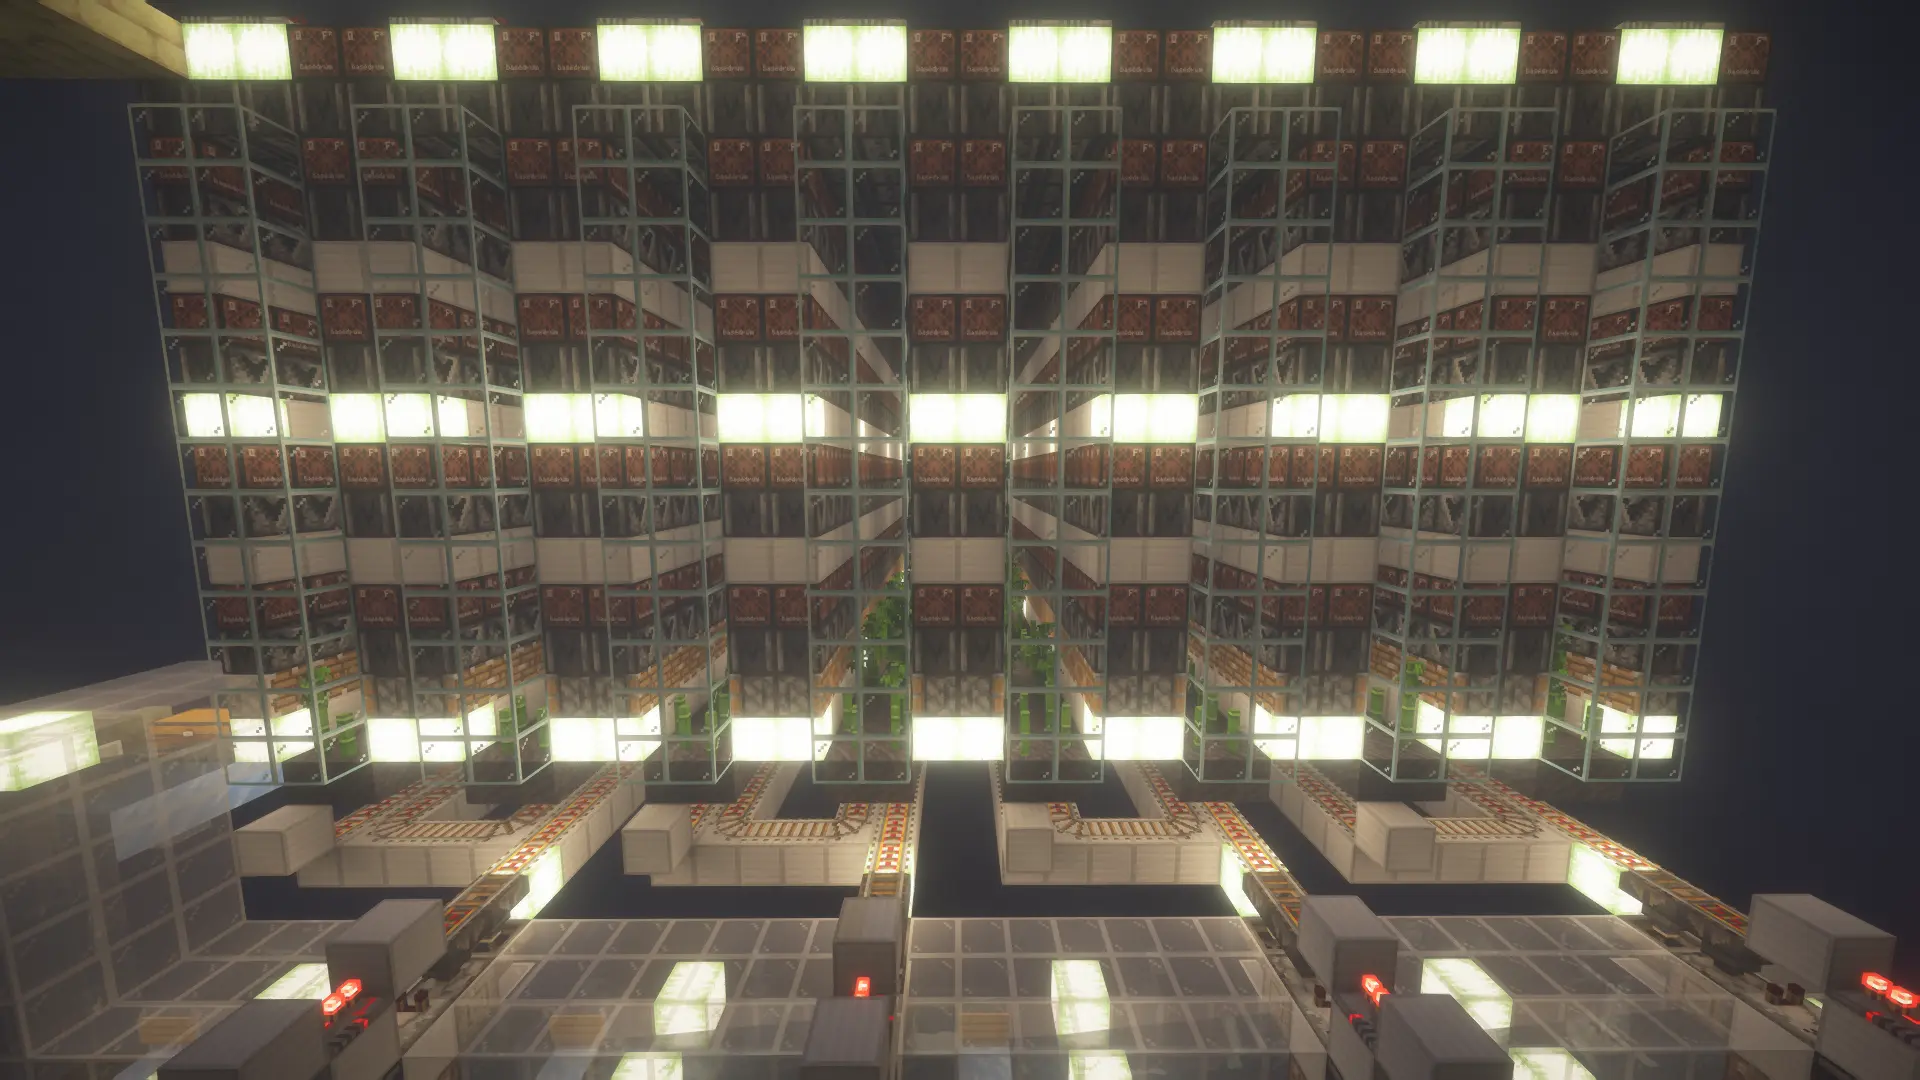
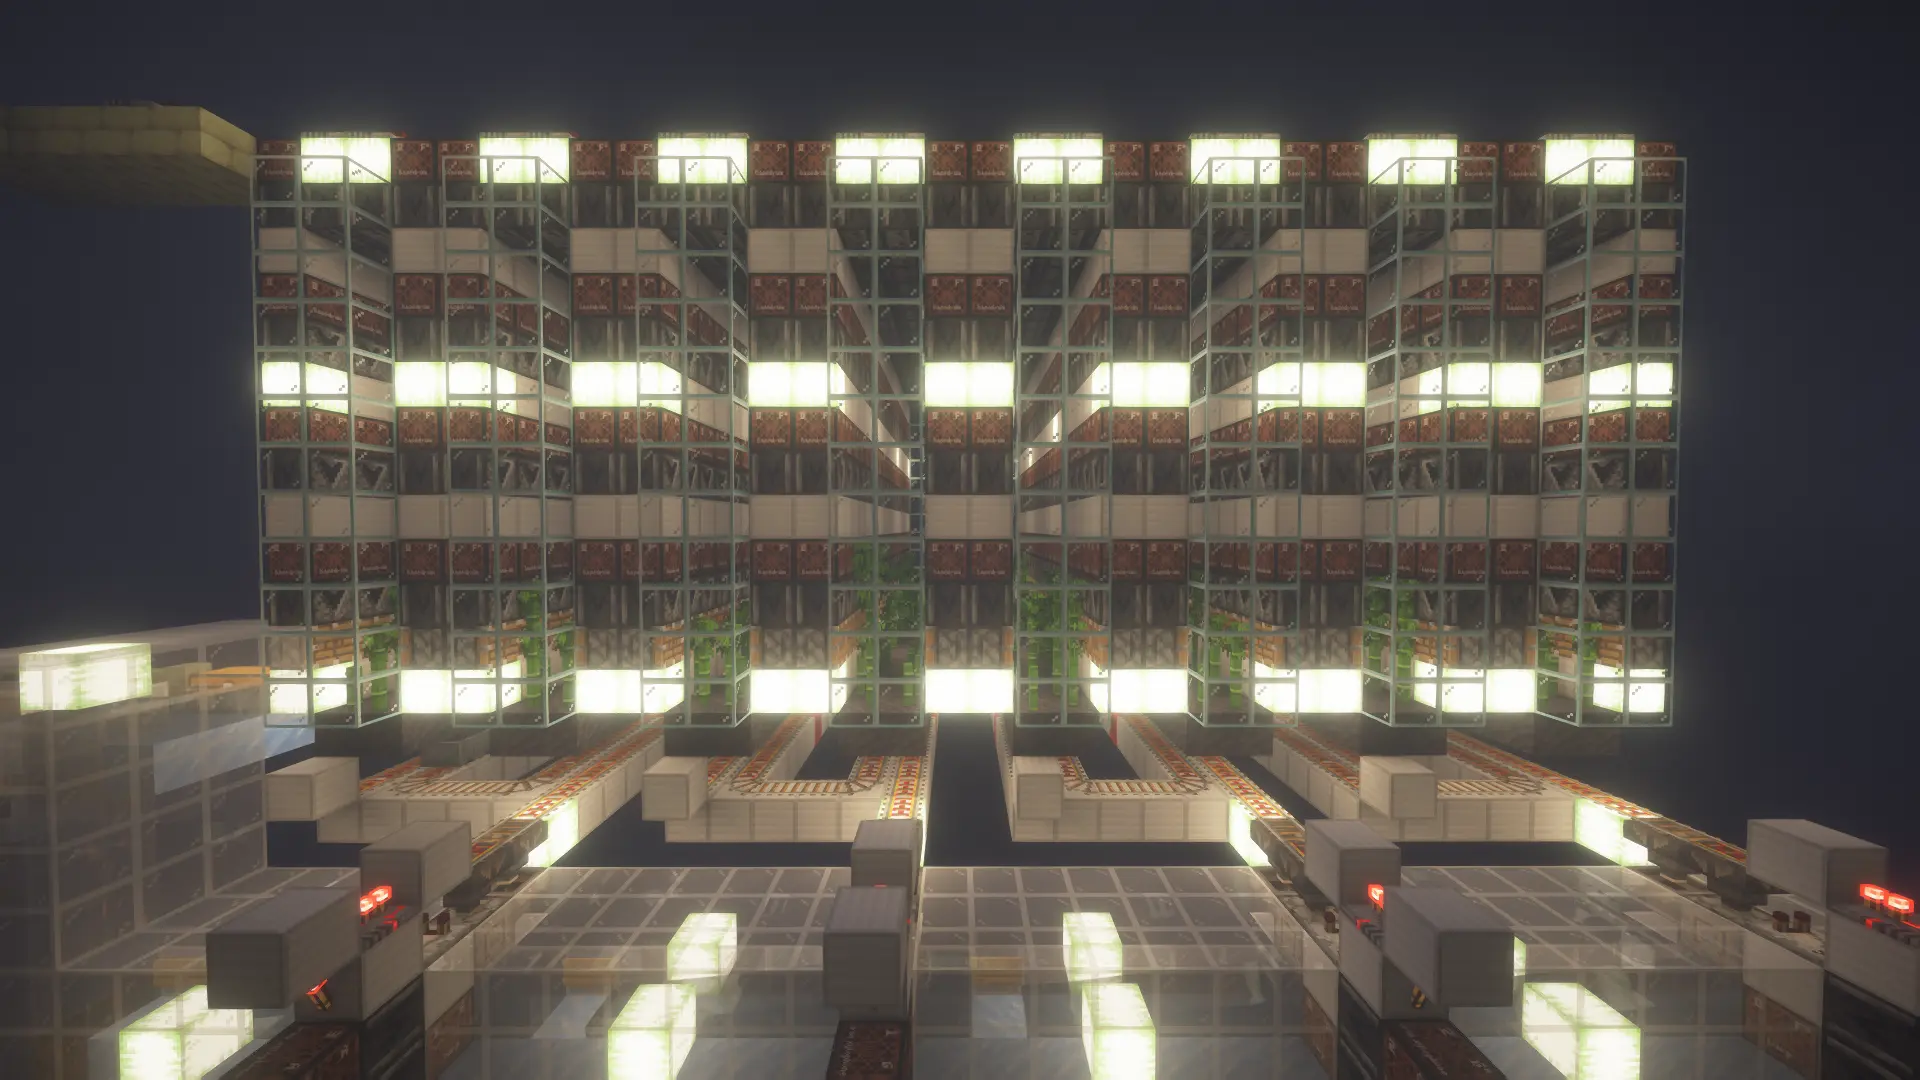
Update

diff --git a/docs/place/machine/overworld/竹子农场.md b/docs/place/machine/overworld/竹子农场.md
@@ -5,3 +5,9 @@
 <Img height='100%'>![](./assets/竹子农场.webp)</Img>
 
 此农场位于末地主岛以南，即进入末地后面向主岛的左边。
+
+### 2025-12-13 更新
+
+1. 降低竹子生成高度以实现 100% 挂机
+2. 将存储空间从 14 大箱扩展为 28 大箱
+
